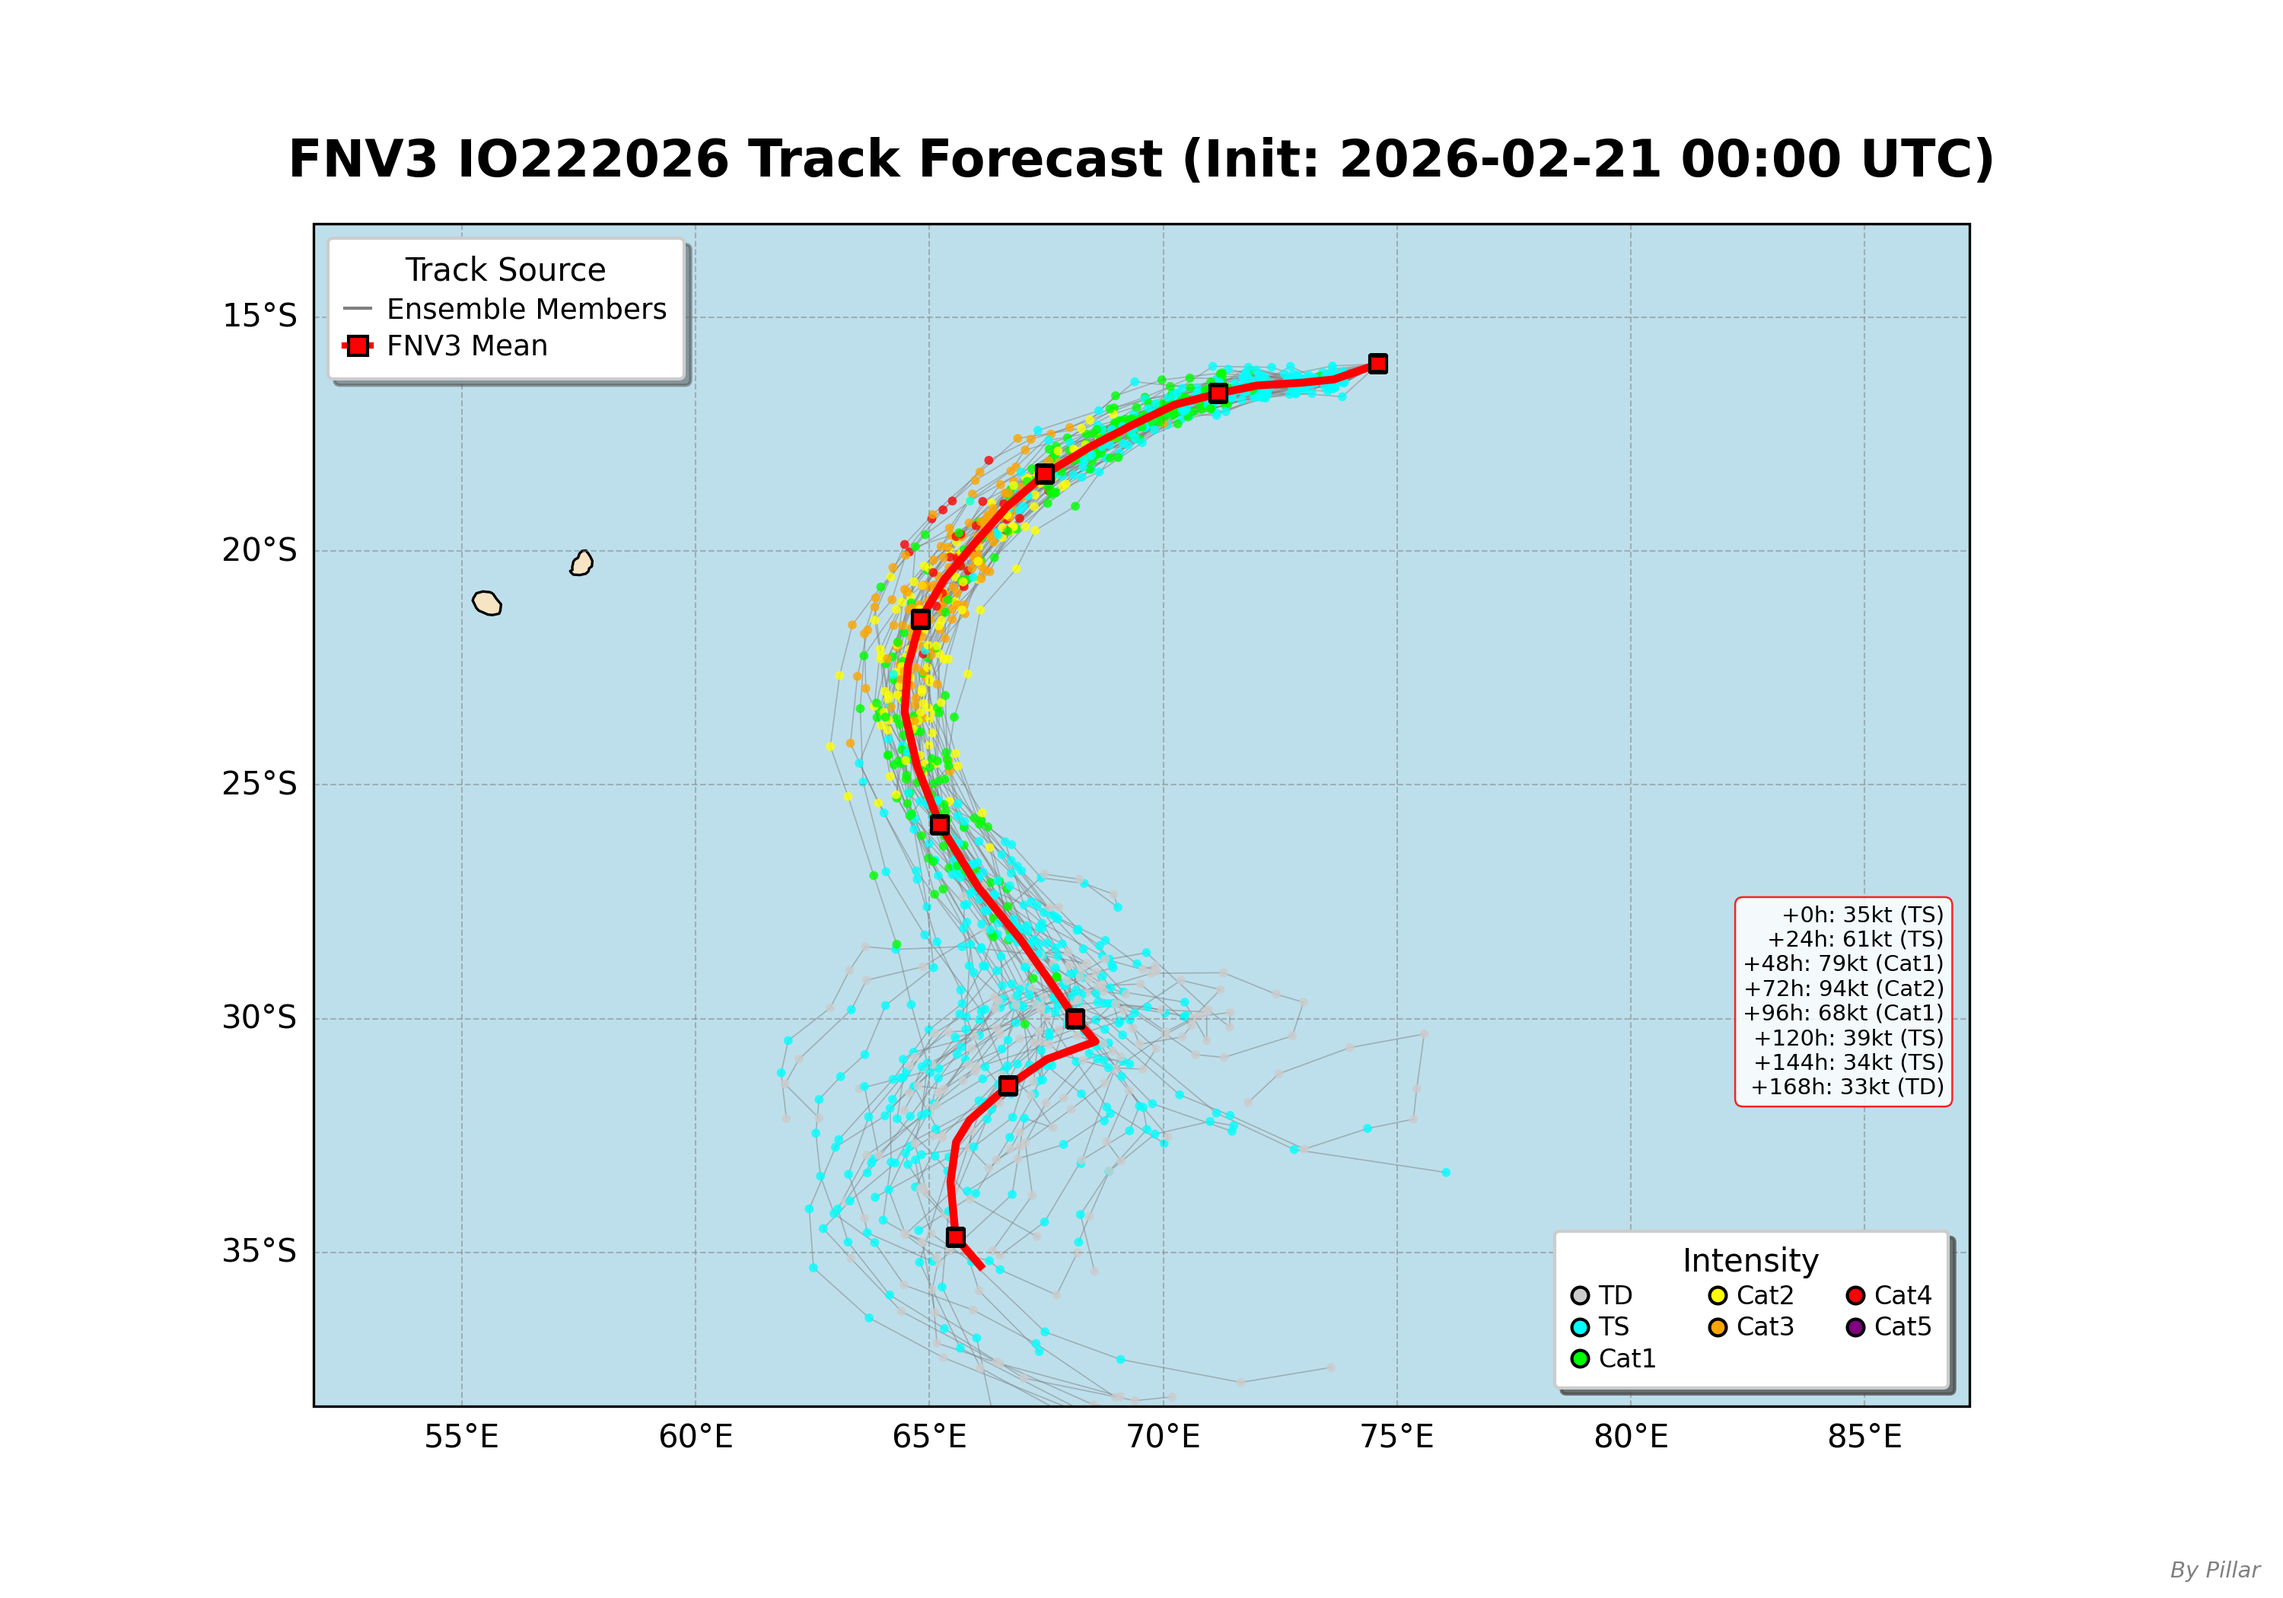
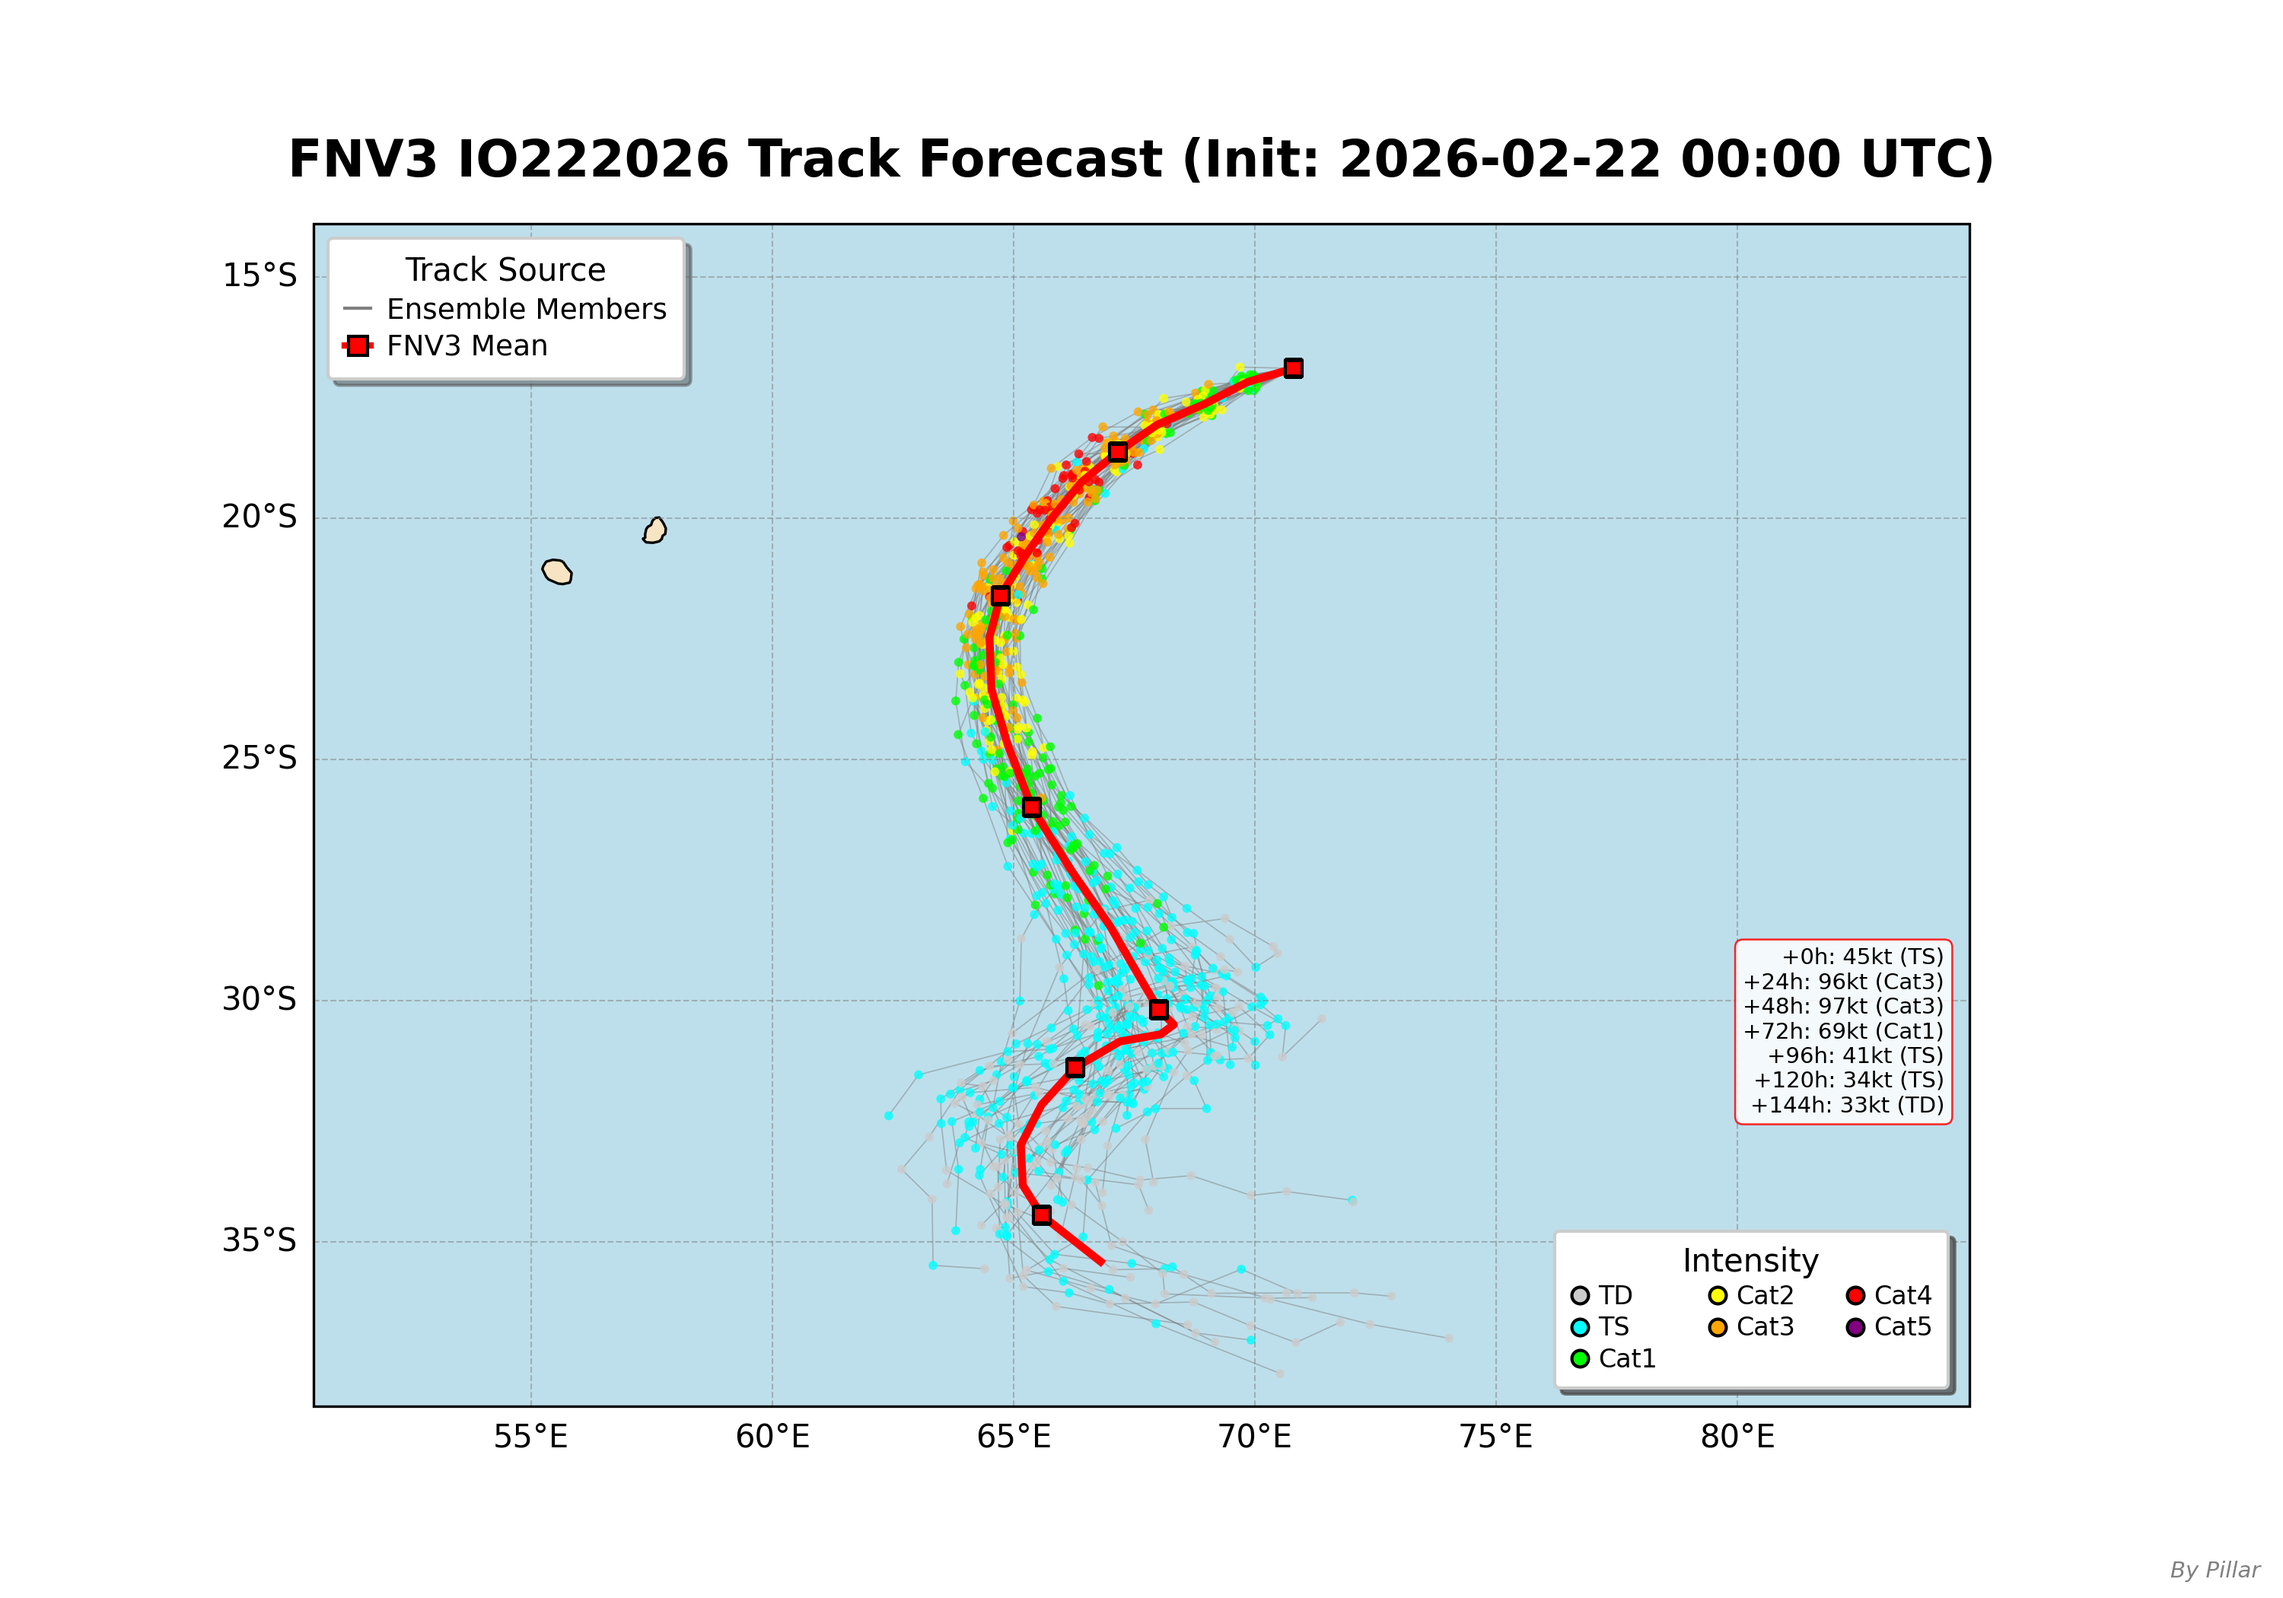
Add files via upload

diff --git a/index.html b/index.html
@@ -689,7 +689,7 @@
                     <div class="subtitle">Real-time FNV3 Ensemble Forecast System</div>
                 </div>
                 <div class="update-badge">
-                    ⏰ Updated: 2026-02-21 14:48:09
+                    ⏰ Updated: 2026-02-22 16:03:31
                 </div>
             </div>
         </header>
@@ -708,15 +708,15 @@
                 <div class="info-grid">
                     <div class="info-item">
                         <div class="info-label">🛰 Current Time</div>
-                        <div class="info-value">201800 Z</div>
+                        <div class="info-value">220600 Z</div>
                     </div>
                     <div class="info-item">
                         <div class="info-label">📍 Current Position</div>
-                        <div class="info-value">15.7°S, 74.9°E</div>
+                        <div class="info-value">17.4°S, 69.4°E</div>
                     </div>
                     <div class="info-item">
                         <div class="info-label">💨 Maximum Wind</div>
-                        <div class="info-value">35 kt</div>
+                        <div class="info-value">45 kt</div>
                     </div>
                     <div class="info-item">
                         <div class="info-label">🔥 Intensity (Saffir-Simpson)</div>
@@ -727,15 +727,15 @@
                     </div>
                     <div class="info-item mobile-wind-radii" style="grid-column: span 2;">
                         <div class="info-label">🌀 34 kt Wind Radii</div>
-                        <div class="info-value">NE: 000 / SE: 100 / SW: 090 / NW: 000 nm</div>
+                        <div class="info-value">NE: 050 / SE: 090 / SW: 090 / NW: 050 nm</div>
                     </div>
                     <div class="info-item mobile-wind-radii" style="grid-column: span 2;">
                         <div class="info-label">🌀 50 kt Wind Radii</div>
-                        <div class="info-value">NE: 000 / SE: 030 / SW: 030 / NW: 000 nm</div>
+                        <div class="info-value">NE: 010 / SE: 020 / SW: 020 / NW: 010 nm</div>
                     </div>
                     <div class="info-item mobile-wind-radii" style="grid-column: span 2;">
                         <div class="info-label">🌀 64 kt Wind Radii</div>
-                        <div class="info-value">NE: 000 / SE: 030 / SW: 030 / NW: 000 nm</div>
+                        <div class="info-value">NE: 000 / SE: 010 / SW: 010 / NW: 000 nm</div>
                     </div>
                 </div>
 
@@ -790,9 +790,9 @@
                         <button class="control-btn" onclick="pauseAnimation('IO222026')">⏸ Pause</button>
                         <button class="control-btn" onclick="resetAnimation('IO222026')">⟲ Reset</button>
                         <div class="progress-bar-container">
-                            <input type="range" id="progress-IO222026" class="progress-slider" min="0" max="32" value="0" 
+                            <input type="range" id="progress-IO222026" class="progress-slider" min="0" max="31" value="0" 
                                    oninput="seekFrame('IO222026', this.value)">
-                            <span id="frame-counter-IO222026" class="frame-counter">1/33</span>
+                            <span id="frame-counter-IO222026" class="frame-counter">1/32</span>
                         </div>
                     </div>
                 </div>
